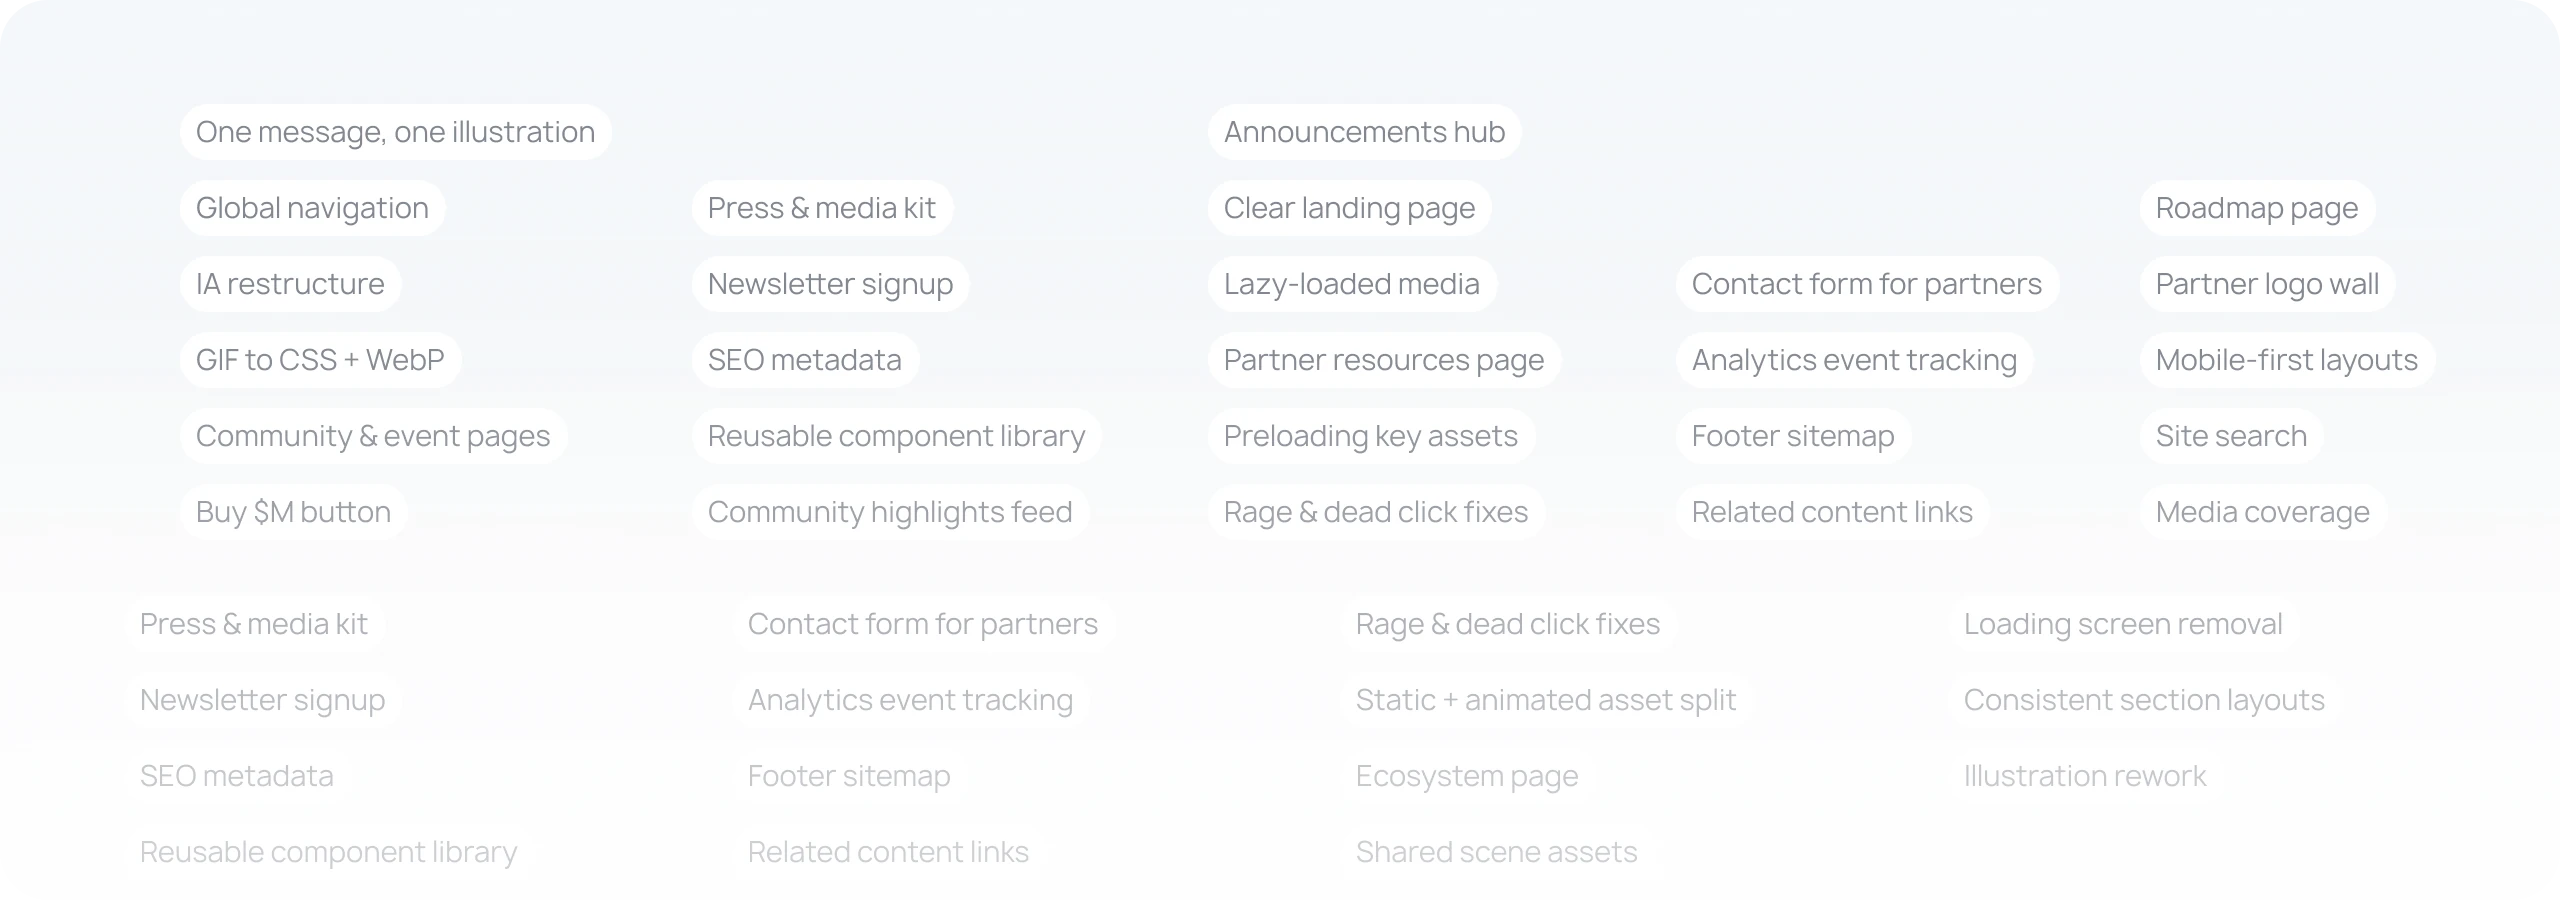
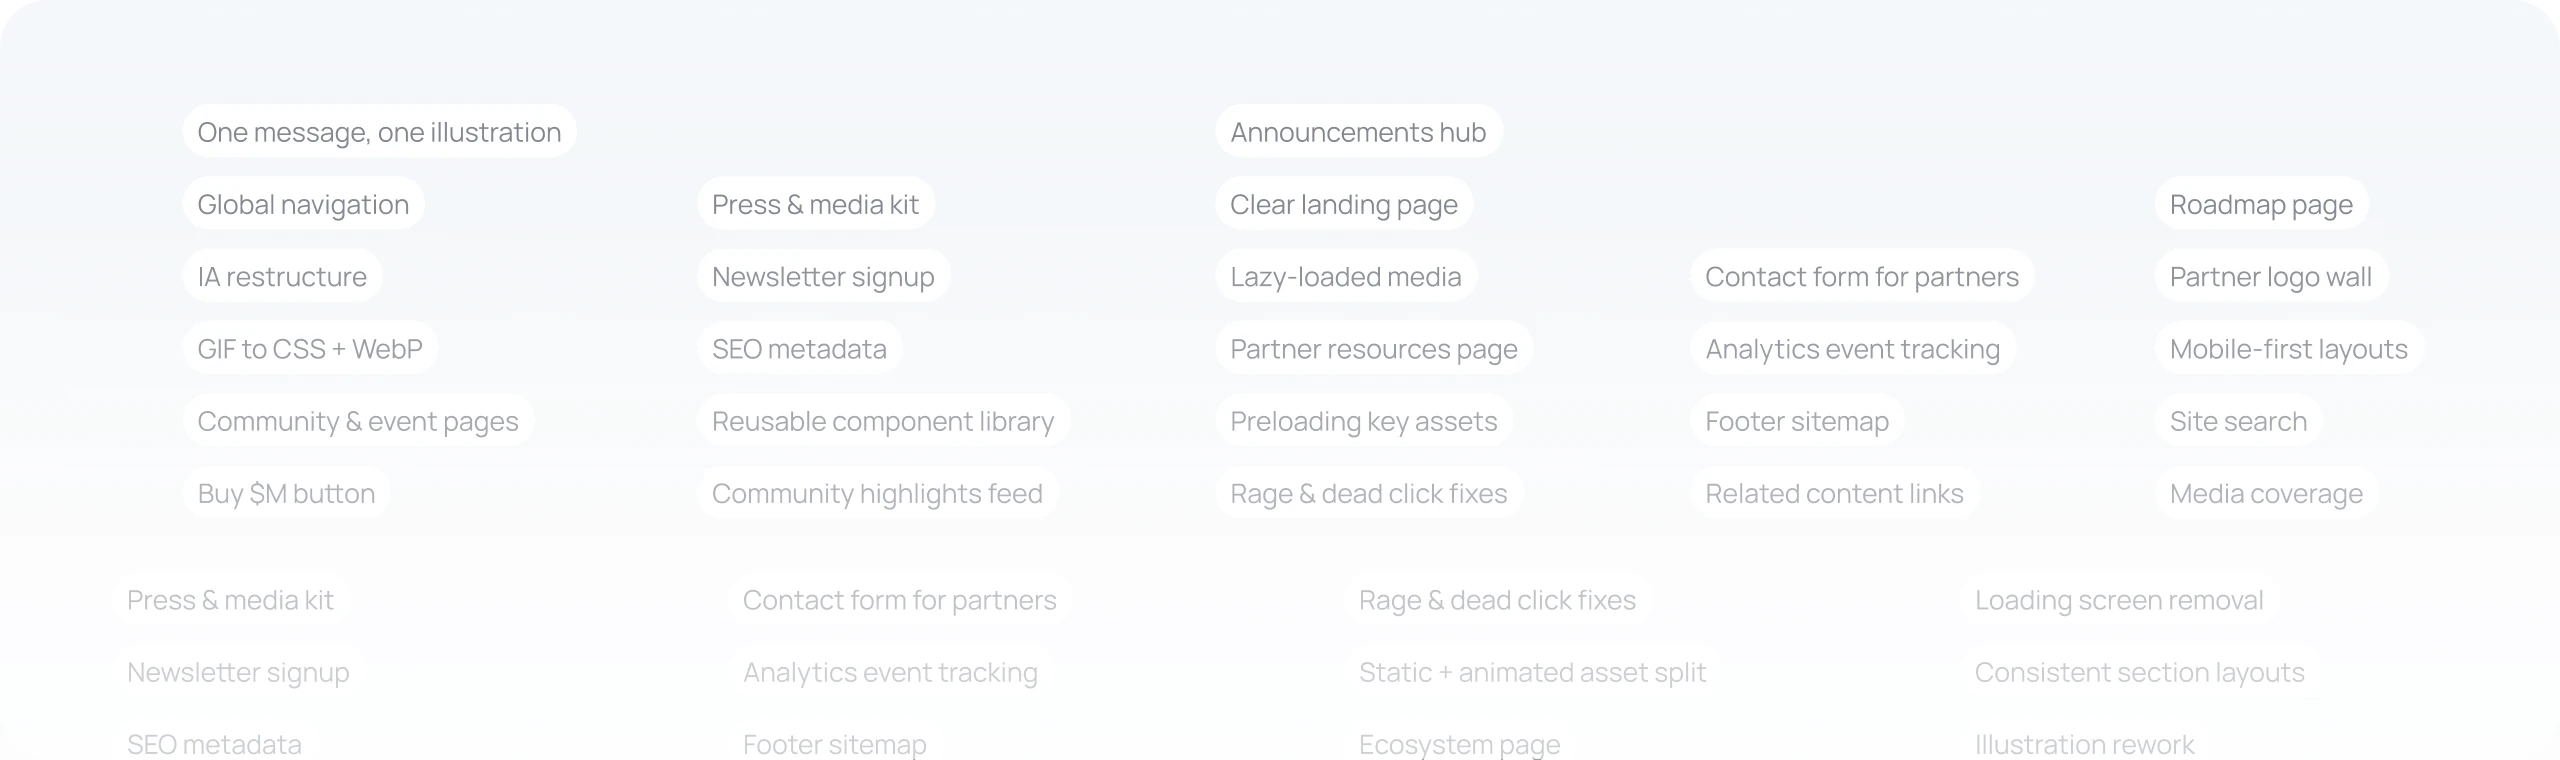
MemeCore: sync Prioritization list and Timeline lists with Figma
- Re-export the prioritization list (smaller pills, 1280x380 box)
- Timeline: third-release list 15px/27, second card first item spacing 0

diff --git a/work/memecore/index.html b/work/memecore/index.html
@@ -283,7 +283,7 @@
         </div>
         <p class="mc-lead mc-lead--body">I mapped the changes that could test our hypotheses, then prioritized them by impact and effort <strong>to focus our limited resources on the highest-impact work.</strong></p>
       </div>
-      <img class="mc-prio" src="../../assets/images/memecore/prio-list.webp?v=1" width="1280" height="450" alt="Possible changes mapped before prioritizing, including global navigation, IA restructure, GIF to CSS + WebP, clear landing page, Buy $M button, announcements hub, lazy-loaded media, roadmap page and site search" loading="lazy">
+      <img class="mc-prio" src="../../assets/images/memecore/prio-list.webp?v=2" width="1280" height="380" alt="Possible changes mapped before prioritizing, including global navigation, IA restructure, GIF to CSS + WebP, clear landing page, Buy $M button, announcements hub, lazy-loaded media, roadmap page and site search" loading="lazy">
     </div>
   </section>
 

diff --git a/work/memecore/memecore.css b/work/memecore/memecore.css
@@ -1097,8 +1097,8 @@
 .mc-tl__list { margin: 0; padding-left: 22px; list-style: disc; display: flex; flex-direction: column; gap: 0; color: var(--mc-body); font-weight: 400; }
 .mc-tl__list--a { font-size: 15px; line-height: 27px; }
 .mc-tl__list--b { font-size: 15px; line-height: 27px; }
-.mc-tl__list--b li:first-child { line-height: 22.5px; letter-spacing: -0.3px; }
-.mc-tl__list--c { font-size: 16px; line-height: 28.8px; }
+.mc-tl__list--b li:first-child { line-height: 22.5px; }
+.mc-tl__list--c { font-size: 15px; line-height: 27px; }
 
 /* ── Responsive ── */
 @media (max-width: 1280px) {
